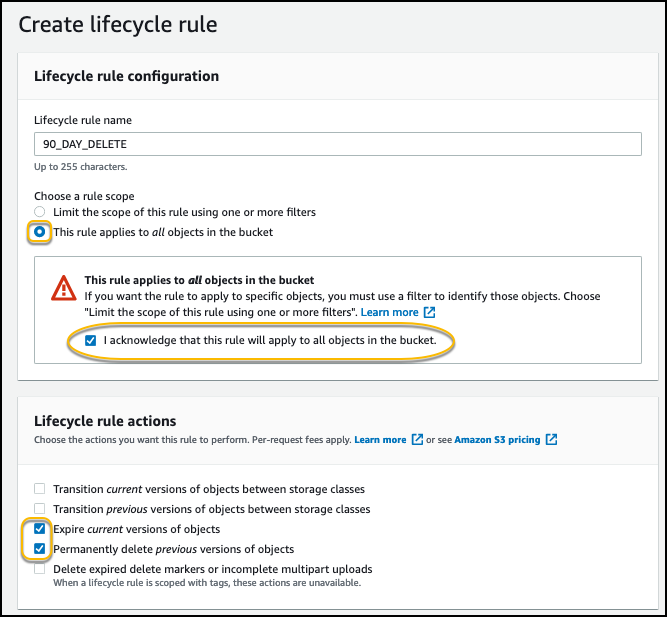
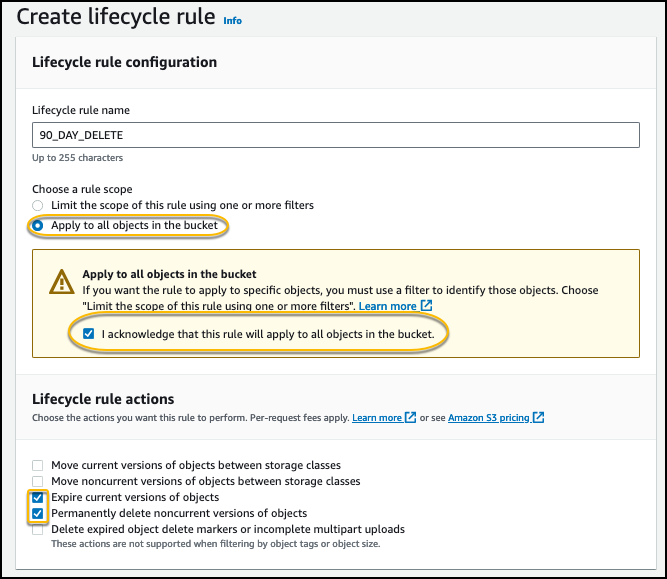
Modified intructions to remove CSV format for VPC Flow logs (#993)

diff --git a/content/Security/300_Labs/300_VPC_Flow_Logs_Analysis_Dashboard/1_enable_vpc_flow_logs.md b/content/Security/300_Labs/300_VPC_Flow_Logs_Analysis_Dashboard/1_enable_vpc_flow_logs.md
@@ -31,11 +31,9 @@ Wait until the VPC CloudFormation stack status is CREATE_COMPLETE, then continue
 
 ### Enable VPC Flow Logs
 
-QuickSight dashboard provided in this lab requires all the fields mentioned in the [Introduction section](/security/300_labs/300_vpc_flow_logs_analysis_dashboard/#introduction) are required. If you already have enabled VPC Flow logs with those fields (with CSV format, Hive partition enabled and delivered to S3) then you can skip this section and proceed to ["**Create Athena resources, Lambda function and CloudWatch rule**"](../2_create_athena_lambda_cloudwatch_rule/) section to continue. If you do not have VPC flow logs enabled or existing VPC Flow logs does not have all the required fields then this section will help you in enabling vpc flow logs for existing VPC(s) in your account. Repeat all the steps from this section for each VPC in case you want to enable VPC Flow logs in respective account to visualize them in QuickSight dashboard under central account.
+QuickSight dashboard provided in this lab requires all the fields mentioned in the [Introduction section](/security/300_labs/300_vpc_flow_logs_analysis_dashboard/#introduction) are required. If you already have enabled VPC Flow logs with those fields (with parquet format, Hive partition enabled and delivered to S3) then you can skip this section and proceed to ["**Create Athena resources, Lambda function and CloudWatch rule**"](../2_create_athena_lambda_cloudwatch_rule/) section to continue. If you do not have VPC flow logs enabled or existing VPC Flow logs does not have all the required fields then this section will help you in enabling vpc flow logs for existing VPC(s) in your account. Repeat all the steps from this section for each VPC in case you want to enable VPC Flow logs in respective account to visualize them in QuickSight dashboard under central account.
 
 #### Parquet file format
-
-{{%expand "Click here for the instructions for enabling VPC Flow Logs in Parquet format" %}}
 
 Use aws cli or AWS CloudShell to run below command. This command will create Flow Log in parquet file format with hive-compatible s3 prefixes
 
@@ -57,76 +55,8 @@ Use aws cli or AWS CloudShell to run below command. This command will create Flo
 4. Once you finish replacing ID, ARN paste the command in CloudShell and run it. You will see below result with FlowLogIds, if it is successful.
 ![Images/quicksight_dashboard_dt-8.png](/Security/300_VPC_Flow_Logs_Analysis_Dashboard/images/qs-vpcfl-33.png)
 
-{{% /expand%}}
-&nbsp;
-&nbsp;
-#### CSV file format
-
-{{%expand "Click here for the instructions for enabling VPC Flow Logs in CSV format" %}}
-
-1. Login to your central AWS account.
-
-2. Run CloudFormation stack to enable VPC Flow Logs.
-
-- Download CloudFormation Template:
-    - [vpc-flow-logs-custom.yaml](/Security/300_VPC_Flow_Logs_Analysis_Dashboard/code/vpc-flow-logs-custom.yaml) 
-        - This CloudFormation template enables VPC Flow Logs in the account you run it. You will need to run it per VPC.
-
-    - From AWS Console navigate to CloudFormation. Then click on **Create stack**
-    ![Images/quicksight_dashboard_dt-8.png](/Security/300_VPC_Flow_Logs_Analysis_Dashboard/images/qs-vpcfl-08.png)
-
-    - Create stack page:
-      1. In **Create stack** page **Specify template** select **Upload a template** file. 
-      2. Then **Choose File** and upload the template vpc-flow-logs-custom.yaml (you have downloaded previously)
-      3. **Click Next**
-    ![Images/quicksight_dashboard_dt-9.png](/Security/300_VPC_Flow_Logs_Analysis_Dashboard/images/qs-vpcfl-09.png)
-
-3. Provide name for the stack e.g., "vpc-flow-logs-stack" and values for the stack parameters and then click **Next**
-
-    - **TrafficType** (ACCEPT, REJECT, ALL): Type of traffic you wish to record
-        - ACCEPT — The recorded traffic was permitted by the security groups and network ACLs.
-        - REJECT — The recorded traffic was not permitted by the security groups or network ACLs.
-        - ALL -  The recorded traffic that was permitted (ACCEPT) and was not permitted (REJECT) by the security groups or network ACLs.
-
-    - **VpcFlowLogsBucketName (Optional)**: S3 bucket name where VPC flow logs will be stored. 
-
-        - If you specify the bucket name then it is assumed that the bucket already exists. If you want to centralize the storage of the logs, then create the bucket before and specify the bucket name here. **If you are enabling VPC Flow Logs in additional account then please make sure to modify S3 bucket's policy from the central account to grant access to additional account and provide the name of the central bucket to this parameter.**
-
-        - If you leave it blank CloudFormation template will create a bucket for you.
-        
-        Note:
-        **VpcFlowLogsBucketName** - This bucket will be used to gather vpc flow logs for all of your vpcs from one or more accounts. So please make sure this is the central account where you want your VPC flow logs to be collected and QuickSight dashboard to be hosted.
-
-
-    - **VpcFlowLogsFilePrefix (Optional)**: VPC Flow [logfile prefix](https://docs.aws.amazon.com/vpc/latest/userguide/flow-logs-s3.html#flow-logs-s3-path) in S3 bucket. See bold text in below example
-
-        **e.g.,** bucket_name/<span style="color: #f92672">**vpc-flow-logs**</span>/AWSLogs/aws_account_id/vpcflowlogs/region/year/month/day/
-
-    - **VpcId**: You can find the VPC ID in [console](https://console.aws.amazon.com/vpc/home?region=us-east-1#vpcs:) 
-
-    ![Images/quicksight_dashboard_dt-2.png](/Security/300_VPC_Flow_Logs_Analysis_Dashboard/images/qs-vpcfl-02.png)
-
-4. In **Configure stack options** page, add below tags and click on **Next**
-    - Name=VPCFlowLogs-CFN
-    - Purpose=WALabVPCFlowLogs
-
-![Images/quicksight_dashboard_dt-3.png](/Security/300_VPC_Flow_Logs_Analysis_Dashboard/images/qs-vpcfl-03.png)
-
-5. On Review screen verify the inputs you have provided
-
-![Images/quicksight_dashboard_dt-4.png](/Security/300_VPC_Flow_Logs_Analysis_Dashboard/images/qs-vpcfl-04.png)
-
-6. Last click on **Create stack**
-![Images/quicksight_dashboard_dt-5.png](/Security/300_VPC_Flow_Logs_Analysis_Dashboard/images/qs-vpcfl-05.png)
-
-7. As shown below you will see progress of the stack creation under **Events** tab. Please wait for the stack to complete the execution. Once complete it will show the status **CREATE_COMPLETE** in green then proceed to the next step.
-![Images/quicksight_dashboard_dt-6.png](/Security/300_VPC_Flow_Logs_Analysis_Dashboard/images/qs-vpcfl-06.png)
-
-{{% /expand%}}
-
 - To verify, navigate to VPC service, click on vpc link and then click on **Flow Logs** tab at the bottom part of the screen. You will see a line with flow logs you just created now.
 ![Images/quicksight_dashboard_dt-7.png](/Security/300_VPC_Flow_Logs_Analysis_Dashboard/images/qs-vpcfl-07.png)
-
 
 ### Delete older VPC Flow Logs from S3 bucket (Optional)
 
@@ -145,7 +75,7 @@ We recommend you to create a life cycle policy to delete logs older than 90 days
     - Check **"I acknowledge that this rule will apply to all the objects in the bucket."**
     - Under **"Lifecycle rule actions"** check
         - Expire current versions of objects
-        - Delete expired delete markers or incomplete multipart uploads
+        - Permanently delete noncurrent versions of objects
     ![Images/qs-vpcfl-s3-2.png](/Security/300_VPC_Flow_Logs_Analysis_Dashboard/images/qs-vpcfl-s3-2.png)
 6. Enter 90 days for **"Number of days after object creation"** and 90 days for **"Number of days after object becomes previous versions"** and click on **Create rule**
 

diff --git a/content/Security/300_Labs/300_VPC_Flow_Logs_Analysis_Dashboard/3_create_vpc_flow_logs_analysis.md b/content/Security/300_Labs/300_VPC_Flow_Logs_Analysis_Dashboard/3_create_vpc_flow_logs_analysis.md
@@ -19,10 +19,6 @@ We will now create the data sets in QuickSight from the Athena view and an analy
 2. Run CloudFormation stack to create QuickSight Athena dataset and a Dashboard.
 - Download CloudFormation Template:
     
-    **CSV** file format - [vpc_flowlogs_quicksight_template.yaml](/Security/300_VPC_Flow_Logs_Analysis_Dashboard/code/vpc_flowlogs_quicksight_template.yaml)
-
-    **OR**
-
     **Parquet** file format - [vpc_flowlogs_quicksight_multi_view_template.yaml](/Security/300_VPC_Flow_Logs_Analysis_Dashboard/code/vpc_flowlogs_quicksight_multi_view_template.yaml)
 
 - From AWS Console navigate to CloudFormation. Then click on **Create stack**
@@ -32,11 +28,7 @@ We will now create the data sets in QuickSight from the Athena view and an analy
   1. In **Specify template** section, select **Upload a template** file. 
   2. Then **Choose File** and upload the appropriate template below (you have downloaded previously)
       
-      **CSV file format**: **_vpc_flowlogs_quicksight_template.yaml_**
-
-      **OR**
-
-      **Parquet file format**: **_vpc_flowlogs_quicksight_multi_view_template.yaml_**
+      Parquet file format: **_vpc_flowlogs_quicksight_multi_view_template.yaml_**
 
   3. Then **Click Next**
       
@@ -73,29 +65,29 @@ We will now create the data sets in QuickSight from the Athena view and an analy
 
 9. From AWS console navigate to the **QuickSight** and click on Dashboards link on the left panel.
   
-10. You will see the newly created dashboard in QuickSight under **Dashboards**, click on the Dashboard name **VPC Flow Logs Analysis Dashboard integrated with AWS VPC Service**:
+10. You will see the newly created dashboard in QuickSight under **Dashboards**, click on the Dashboard name **VPC Flow Logs Analysis Dashboard integrated with AWS VPC Service**
 ![Images/qs-vpcfl-27.png](/Security/300_VPC_Flow_Logs_Analysis_Dashboard/images/qs-vpcfl-27.png)
 
-7. Click **Share**, click **Share dashboard**:, 
+7. Click **Share**, click **Share dashboard**
 ![Images/qs-vpcfl-28.png](/Security/300_VPC_Flow_Logs_Analysis_Dashboard/images/qs-vpcfl-28.png)
 
-8. Click on **Manage dashboard access**:
+8. Click on **Manage dashboard access**
 ![Images/quicksight_dashboard_8.png](/Security/300_VPC_Flow_Logs_Analysis_Dashboard/images/qs-vpcfl-manage_dashboard.png)
 
 9. Add the required users, or share with all users, ensure you check **Save as** for each user, then click the **x** to close the window:
 ![Images/quicksight_dashboard_9.png](/Security/300_VPC_Flow_Logs_Analysis_Dashboard/images/qs-vpcfl-saveas_admin.png)
 
-10. Click **Save as**:
+10. Click **Save as**
 ![Images/qs-vpcfl-31.png](/Security/300_VPC_Flow_Logs_Analysis_Dashboard/images/qs-vpcfl-31.png)
 
-11. Enter an **Analysis name** and click **Create**:
+11. Enter an **Analysis name** and click **Create**
 ![Images/qs-vpcfl-32.png](/Security/300_VPC_Flow_Logs_Analysis_Dashboard/images/qs-vpcfl-32.png)
 
 {{% notice note %}}
 Perform steps 11 - 15 above to create additional analyses for other teams, this will allow each team to have their own customizable analysis.
 {{% /notice %}}
 
-16. You will now have an analysis created from the template that you can edit and modify:
+16. You will now have an analysis created from the template that you can edit to make changes as per your requirements
 ![Images/qs-vpcfl-analysis.png](/Security/300_VPC_Flow_Logs_Analysis_Dashboard/images/qs-vpcfl-analysis.png)
 
 

diff --git a/content/Security/300_Labs/300_VPC_Flow_Logs_Analysis_Dashboard/2_create_athena_lambda_cloudwatch_rule.md b/content/Security/300_Labs/300_VPC_Flow_Logs_Analysis_Dashboard/2_create_athena_lambda_cloudwatch_rule.md
@@ -17,10 +17,6 @@ Now that you have enabled VPC Flow Logs, which will help you understand how your
 2. Run CloudFormation stack to create Athena Database, Table, Lambda function and Cloudwatch rule.
 
  - Download CloudFormation Template:
-    - **CSV file format**: [vpc_athena_db_table_view_lambda.yaml](/Security/300_VPC_Flow_Logs_Analysis_Dashboard/code/vpc_athena_db_table_view_lambda.yaml) 
-    
-      **OR**
-    
     - **Parquet file format**: [vpc_athena_db_table_view_lambda_parquet.yaml](/Security/300_VPC_Flow_Logs_Analysis_Dashboard/code/vpc_athena_db_table_view_lambda_parquet.yaml)
 
 
@@ -36,10 +32,6 @@ Now that you have enabled VPC Flow Logs, which will help you understand how your
   1. In **Specify template** section, select **Upload a template** file. 
   2. Then **Choose File** and upload the appropriate template below (you have downloaded previously)
       
-      CSV file format: **_vpc_athena_db_table_view_lambda.yaml_**
-
-      **OR**
-
       Parquet file format: **_vpc_athena_db_table_view_lambda_parquet.yaml_**
 
   3. Then **Click Next**
@@ -61,23 +53,14 @@ Now that you have enabled VPC Flow Logs, which will help you understand how your
    8. **VpcFlowLogsBucketName:** Name of the Amazon S3 bucket where vpc flow logs are stored. e.g. _my-vpc-flow-logs-bucket_
    9. **VpcFlowLogsFilePrefix:** The log file prefix in Amazon S3 bucket that comes right after s3 bucket name e.g. _vpc-flow-logs/_
    10. **VpcFlowLogsS3BucketLocation:** Please provide complete path **without log file name**, as shown below
-
-   e.g.
-
-   - For CSV - **_s3://my-vpc-flow-logs-bucket/vpc-flow-logs/AWSLogs/0123456789/vpcflowlogs/us-east-1/2021/11/01/_**
    
+   &nbsp;&nbsp;&nbsp;&nbsp;e.g.:
+
    - For Parquet - **_s3://my-vpc-flow-logs-bucket/vpc-flow-logs-enh-parquet/AWSLogs/_**
 
 - Click **Next**
 
-{{%expand "Click here to see Parquet Stack parameters" %}}
 ![Images/quicksight_dashboard_dt-10-1.png](/Security/300_VPC_Flow_Logs_Analysis_Dashboard/images/qs-vpcfl-10-1.png)
-{{%/expand%}}
-
-
-{{%expand "Click here to see CSV Stack parameters" %}}
-![Images/quicksight_dashboard_dt-10.png](/Security/300_VPC_Flow_Logs_Analysis_Dashboard/images/qs-vpcfl-10.png)
-{{%/expand%}}
 
 4. Add tags **Name=VPCFlowLogs-Lambda-Stack** and **Purpose=WALabVPCFlowLogs**. Keep rest of the selections to **default** values. Click **Next**
 ![Images/quicksight_dashboard_dt-11.png](/Security/300_VPC_Flow_Logs_Analysis_Dashboard/images/qs-vpcfl-11.png)
@@ -89,12 +72,6 @@ Now that you have enabled VPC Flow Logs, which will help you understand how your
 7. To verify the result navigate to Athena from AWS Console and run below sql query:
 
         SELECT * FROM vpc_flow_logs_custom_integration limit 10;
-        
-   Athena View for CSV: 
-
-        SELECT * FROM vpc_flow_logs_view limit 10;
-
-   Athena Views for Parquet:
 
         SELECT * FROM vpc_flow_logs_summary_view limit 10;
 
@@ -103,7 +80,7 @@ Now that you have enabled VPC Flow Logs, which will help you understand how your
         SELECT * FROM vpc_flow_logs_enhanced_view limit 10;
 
 
-Example screen shot:
+Example screenshot:
 ![Images/quicksight_dashboard_dt-15.png](/Security/300_VPC_Flow_Logs_Analysis_Dashboard/images/qs-vpcfl-15-1.png) 
 
 

diff --git a/content/Security/300_Labs/300_VPC_Flow_Logs_Analysis_Dashboard/4_teardown.md b/content/Security/300_Labs/300_VPC_Flow_Logs_Analysis_Dashboard/4_teardown.md
@@ -14,7 +14,6 @@ To perform a teardown for this lab, perform the following steps:
     1. Go to the AWS CloudFormation console: <https://console.aws.amazon.com/cloudformation>
     2. Select the CloudFormation stack you crated with below template to delete and click **Delete**
         - Parquet: **vpc_flowlogs_quicksight_multi_view_template.yaml**
-        - CSV: **vpc_flowlogs_quicksight_template.yaml**
     3. In the confirmation dialog, click **Delete stack**
     4. The **Status** changes to _DELETE_IN_PROGRESS_
     5. Click the refresh button to update and status will ultimately progress to _DELETE_COMPLETE_
@@ -27,8 +26,7 @@ To perform a teardown for this lab, perform the following steps:
 2. Delete **Athena DB, Table, View, Lambda Function and Cloudwatchwatch rule**
     1. Go to the AWS CloudFormation console: <https://console.aws.amazon.com/cloudformation>
     2. Select the CloudFormation stack you crated with below template to delete and click **Delete**
-        - Parquet: **vpc_athena_db_table_view_lambda_parquet.yaml**, OR
-        - CSV: **vpc_athena_db_table_view_lambda.yaml** 
+        - Parquet: **vpc_athena_db_table_view_lambda_parquet.yaml**
     3. In the confirmation dialog, click **Delete stack**
     4. The **Status** changes to _DELETE_IN_PROGRESS_
     5. Click the refresh button to update and status will ultimately progress to _DELETE_COMPLETE_
@@ -39,20 +37,6 @@ To perform a teardown for this lab, perform the following steps:
         * Refresh to see new events
 
 4. Delete **VPC Flow Logs from VPC**:
-
-    - **CSV**: Please login to the AWS account where you have executed cloudformation template to create VPC Flow Logs
-        1. Go to the AWS CloudFormation console: <https://console.aws.amazon.com/cloudformation>
-        2. Select the CloudFormation stack you crated with template CSV: **vpc-flow-logs-custom.yaml** to delete and click **Delete**
-        3. In the confirmation dialog, click **Delete stack**
-        4. The **Status** changes to _DELETE_IN_PROGRESS_
-        5. Click the refresh button to update and status will ultimately progress to _DELETE_COMPLETE_
-        6. When complete, the stack will no longer be displayed. To see deleted stacks use the drop down next to the Filter text box.
-        6. To see progress during stack deletion
-            * Click the stack name
-            * Select the Events column
-            * Refresh to see new events
-
-    OR
 
     - **Parquet**: Please login to the AWS account where you have enabled VPC flow logs on the desired VPC. Navigate to the CloudShell service and execute below api command to delete the flow logs.
         1. Replace `<fl-11223344556677889>` with your flow log id.

diff --git a/content/Security/300_Labs/300_VPC_Flow_Logs_Analysis_Dashboard/_index.md b/content/Security/300_Labs/300_VPC_Flow_Logs_Analysis_Dashboard/_index.md
@@ -22,7 +22,6 @@ This dashboard contains breakdowns with the following visuals. Available views a
  - Source and destination AWS services paths (Enhanced view)
 
 Supported flow log record formats:
-- CSV
 - Parquet
 
 Supported Glue Partitions:
